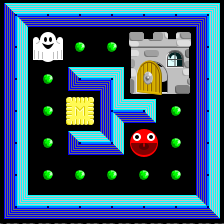
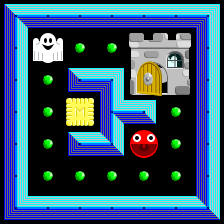
* added thumbnails for all 0815 levels to /extra/level-thumbnails/new

diff --git a/core/src/com/mcminos/game/Play.java b/core/src/com/mcminos/game/Play.java
@@ -75,8 +75,8 @@ public class Play implements Screen, GestureListener, InputProcessor {
 
     public void init(String levelName) {
         game = new Game(main, this, camera);
-        background = Entities.backgrounds_punched_plate_03;
-//        background = Entities.backgrounds_amoeboid_01;
+//        background = Entities.backgrounds_punched_plate_03;
+        background = Entities.backgrounds_amoeboid_01;
         game.disableMovement();
         game.currentLevelName = levelName;
         level = game.loadLevel(levelName);
